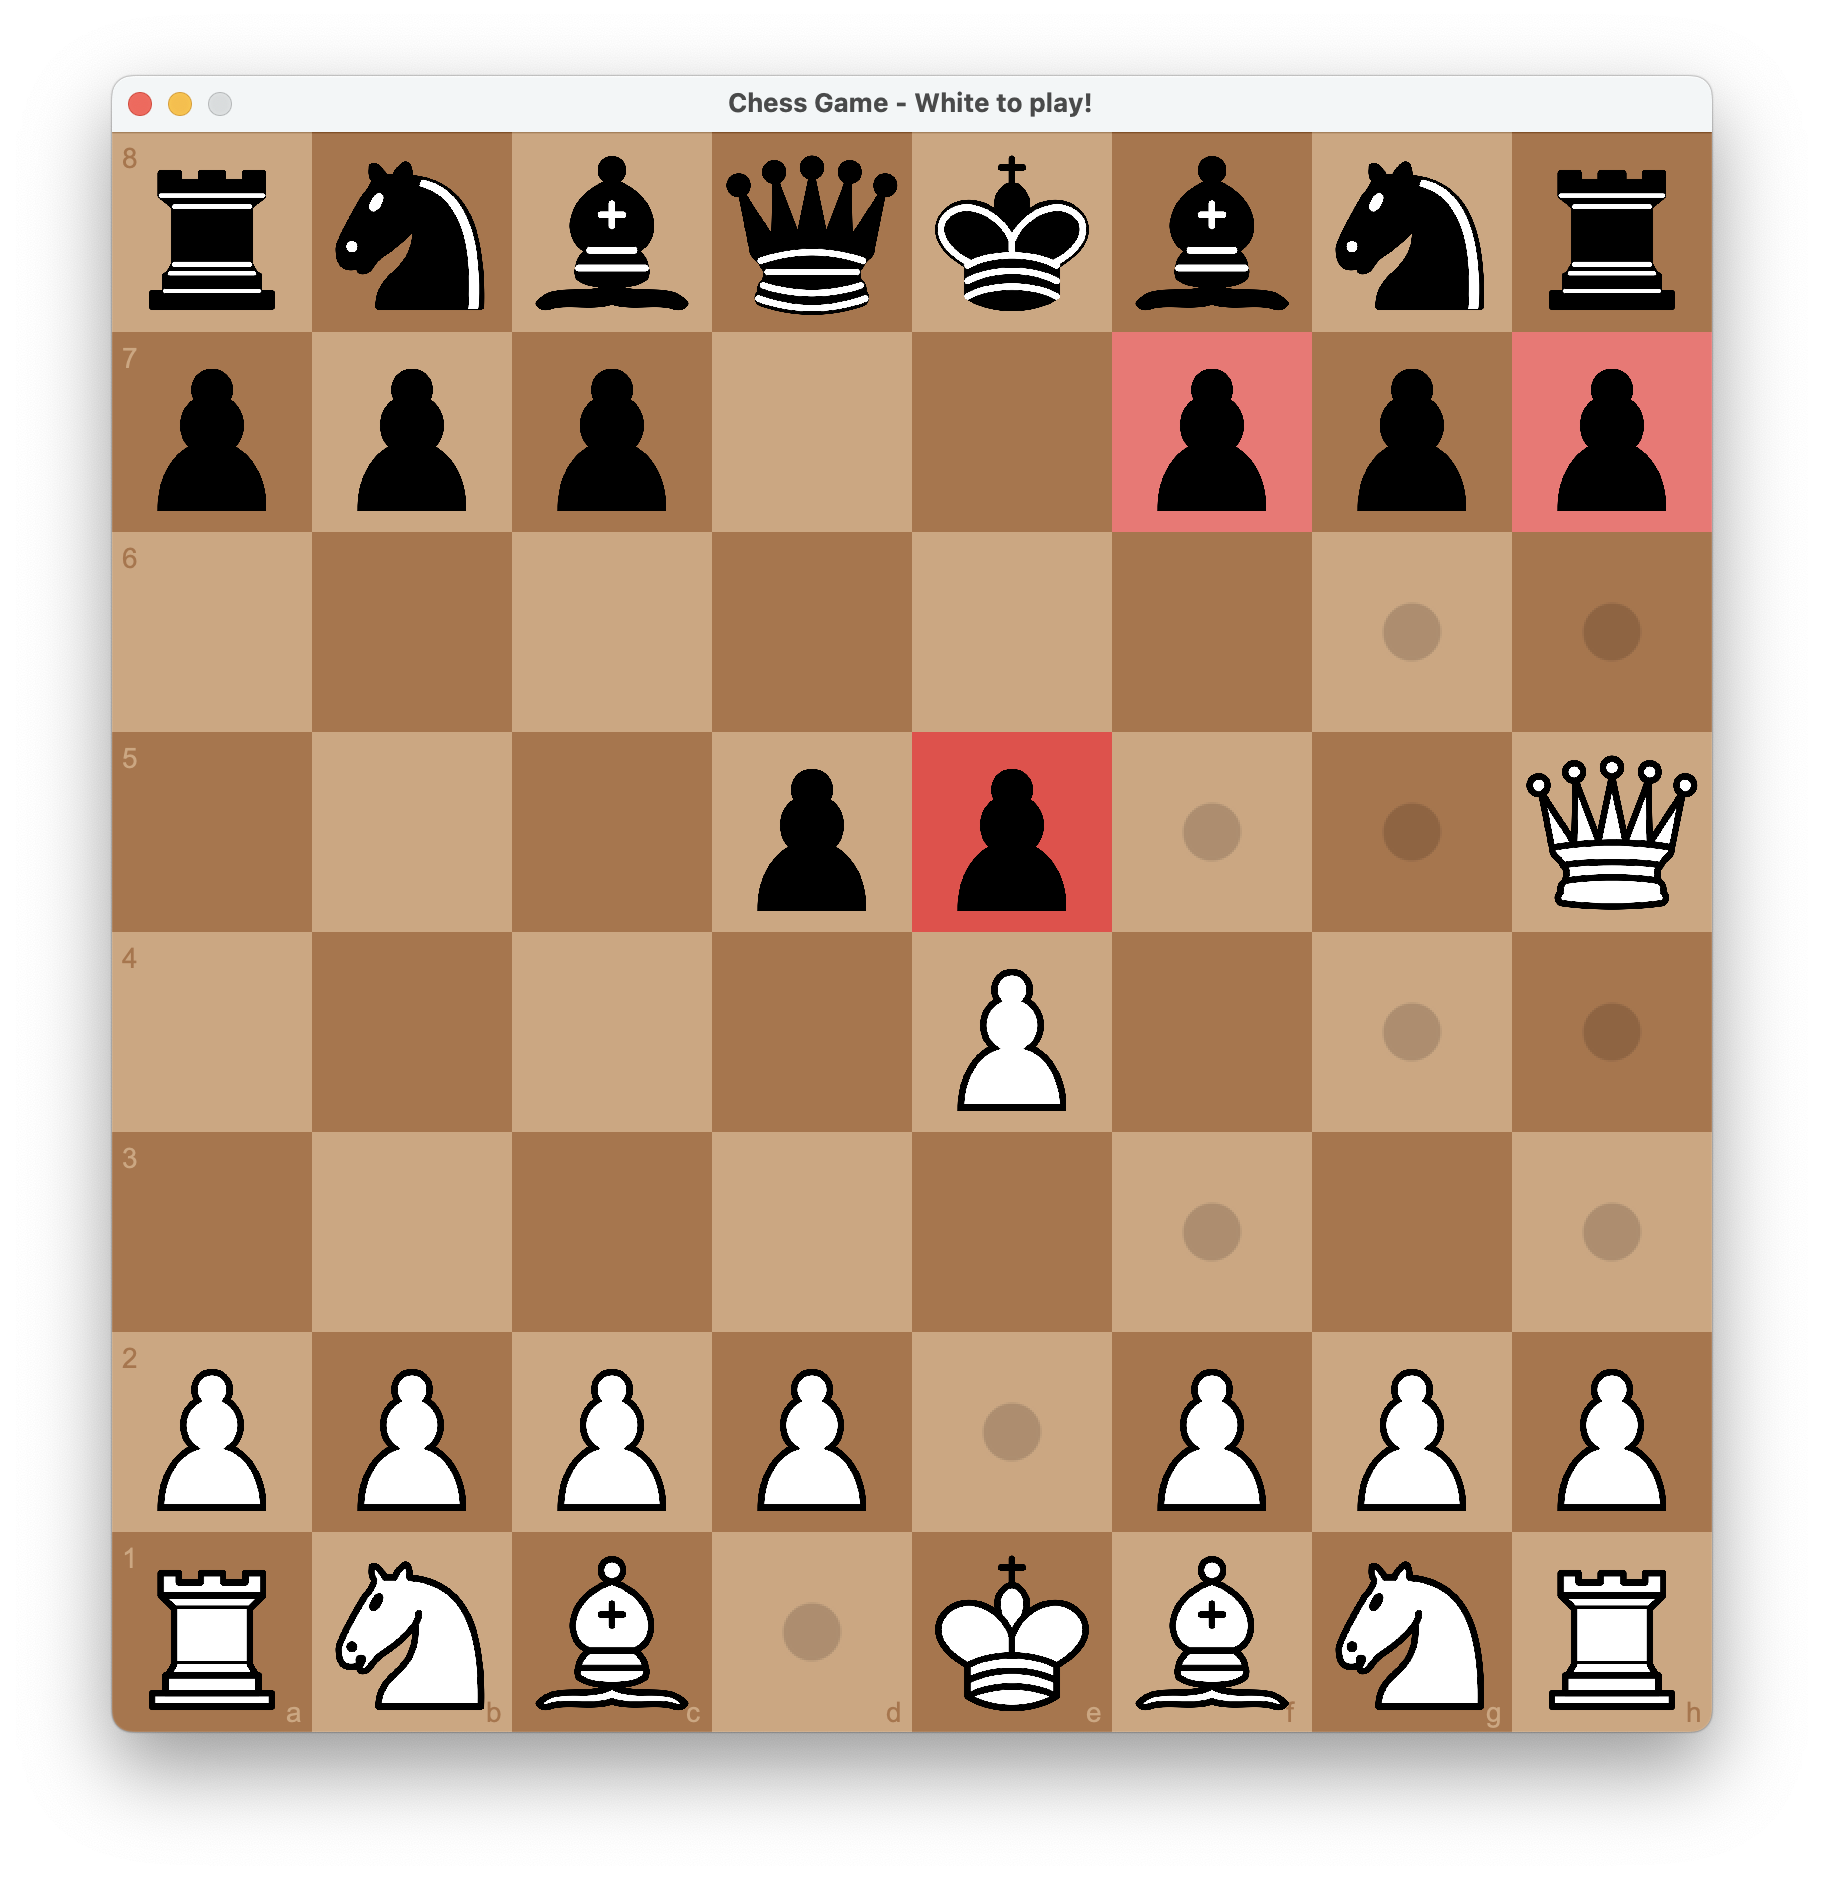
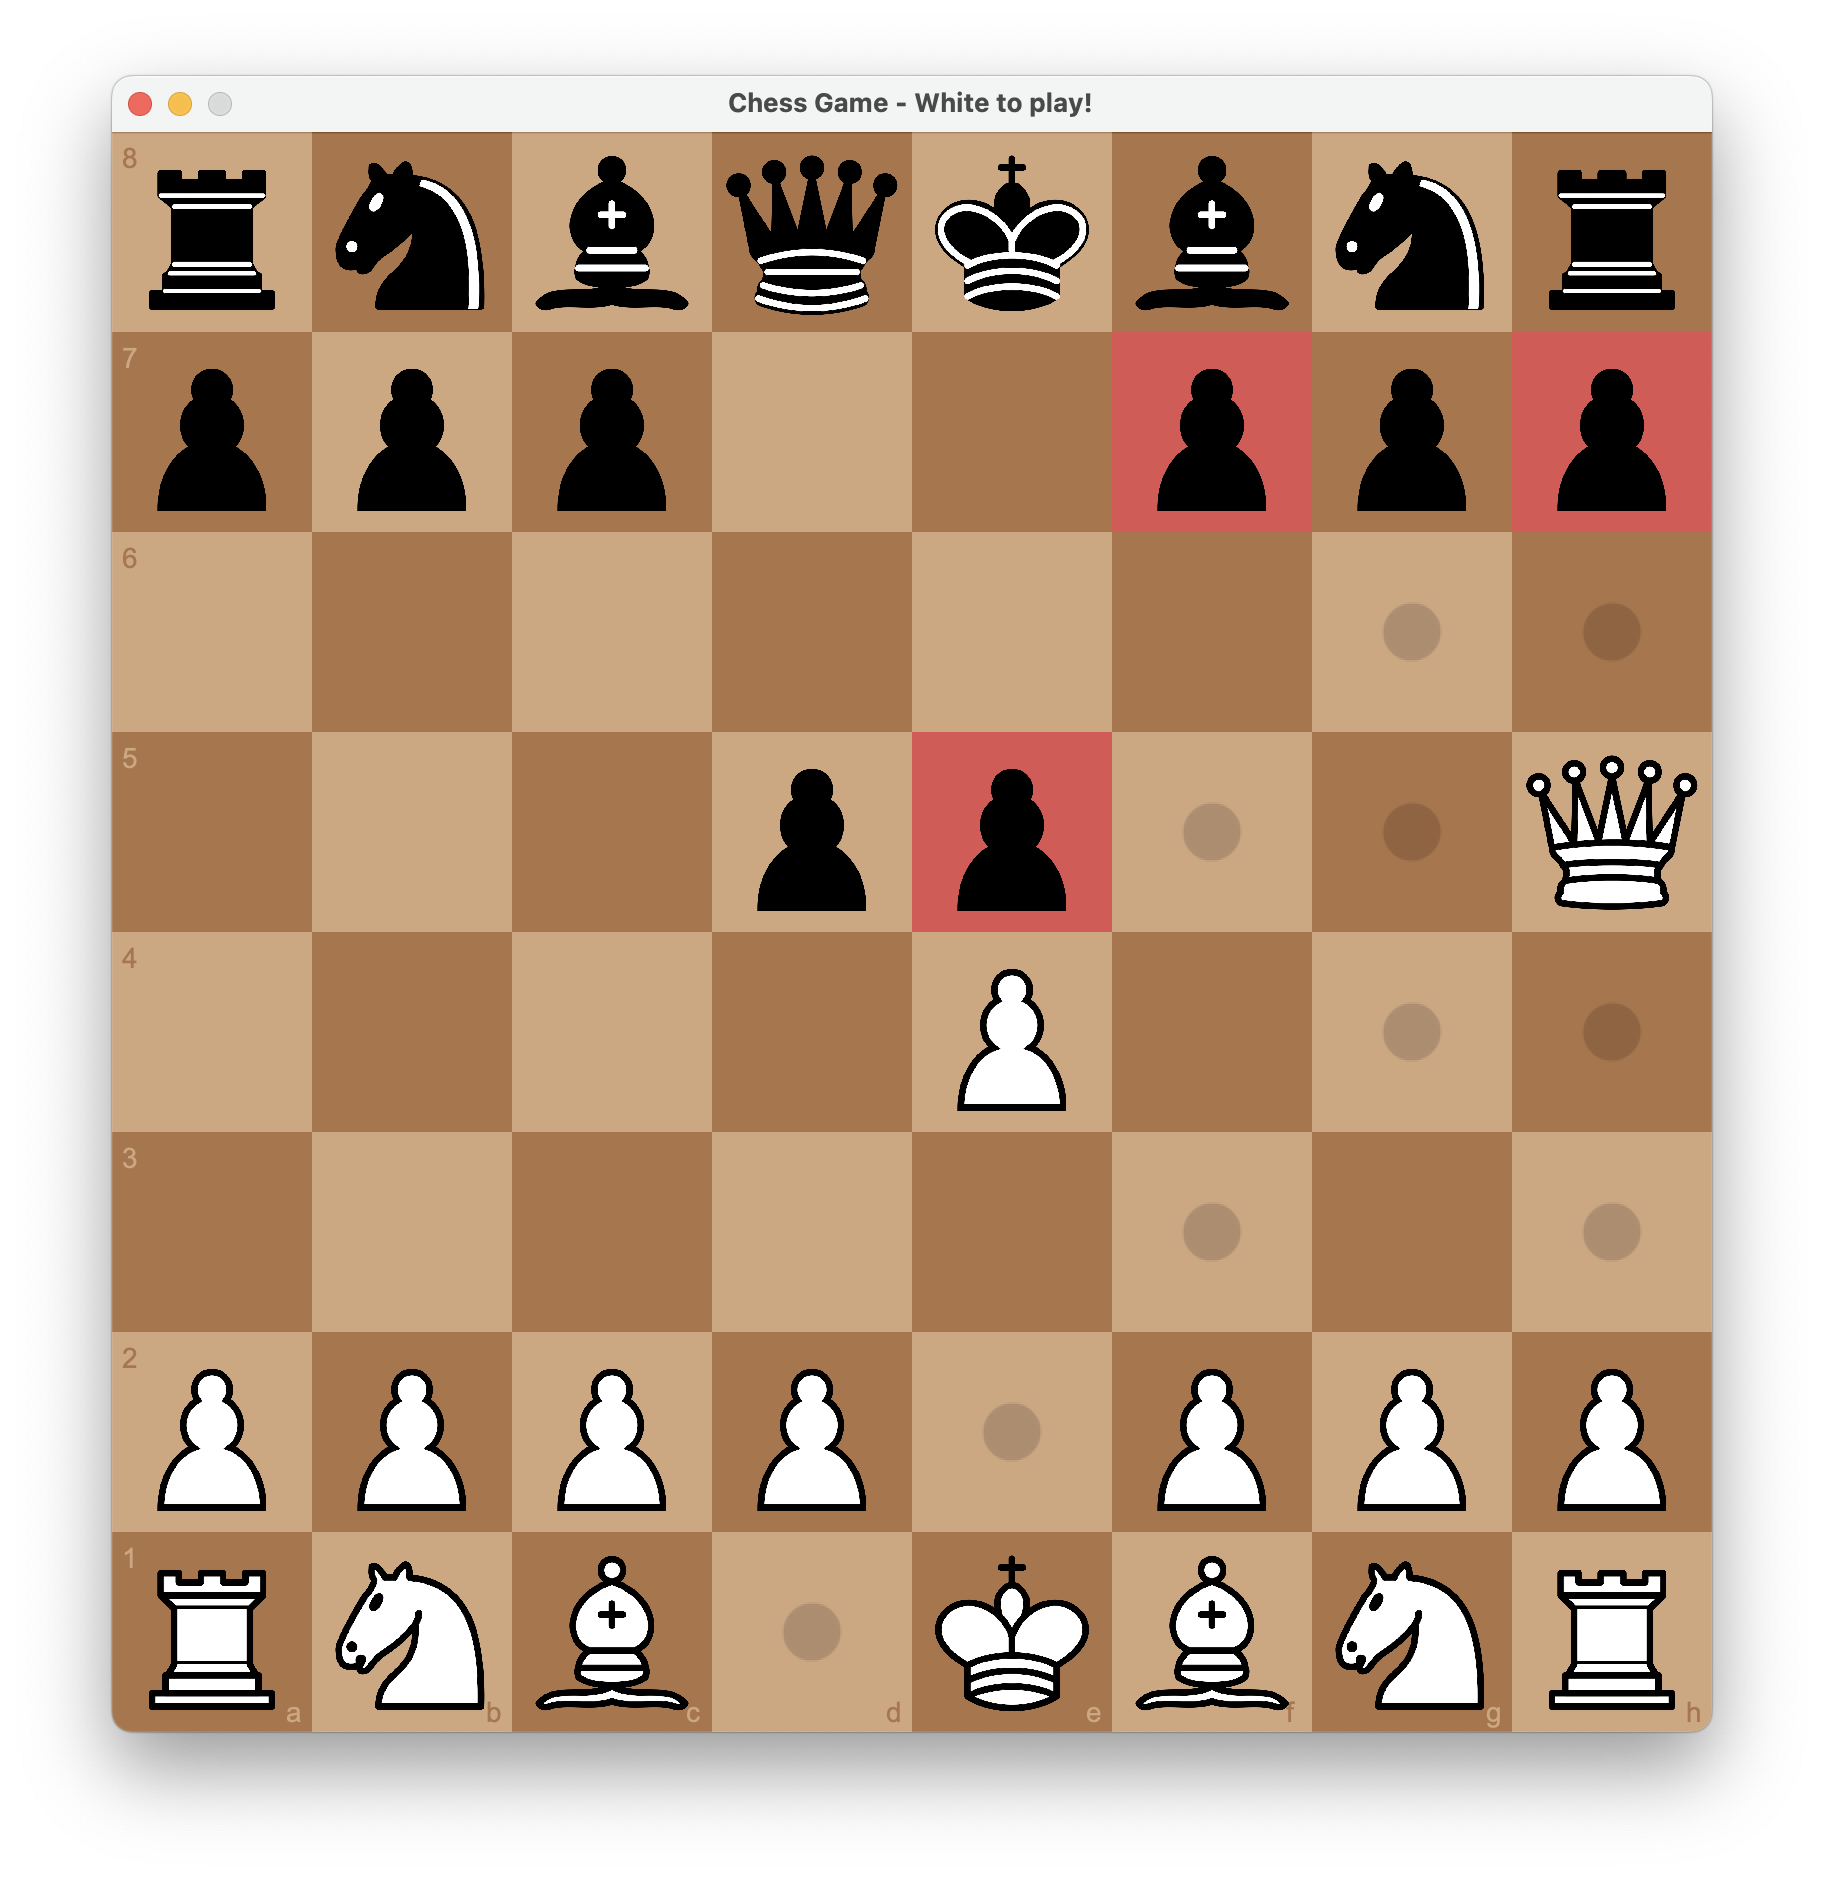
Updated Hightlight Color

Changed region(s): [[0.8125, 0.1543, 0.9375, 0.3085], [0.5938, 0.1543, 0.7188, 0.3085]]

diff --git a/src/board/Tile.java b/src/board/Tile.java
@@ -4,7 +4,7 @@ import piece.Piece;
 public class Tile {
 	public static int tileSize = 100;
 	private int file, rank;
-	private TileColor tileColor;
+	private TileColor tileColor, initialTileColor;
 	private String fileLabel, rankLabel;
 	private Piece piece;
 
@@ -13,6 +13,7 @@ public class Tile {
 		this.file = file;
 		this.rank = rank;
 		this.tileColor = tileColor;
+		this.initialTileColor = tileColor;
 		this.fileLabel = fileLabel;
 		this.rankLabel = rankLabel;
 		this.piece = piece;
@@ -49,6 +50,10 @@ public class Tile {
 
 	public TileColor getTileColor() {
 		return tileColor;
+	}
+
+	public TileColor getInitialTileColor() {
+		return initialTileColor;
 	}
 
 	public String getFileLabel() {

diff --git a/src/main/GameWindow.java b/src/main/GameWindow.java
@@ -300,16 +300,7 @@ public class GameWindow extends JPanel implements Runnable {
 	private void restoreTileColors() {
 		if (getHighlightedTiles() != null) {
 			for (Tile tile : getHighlightedTiles()) {
-				switch (tile.getTileColor()) {
-				case TileColor.LIGHT_RED:
-					tile.setTileColor(TileColor.LIGHT);
-					break;
-				case TileColor.DARK_RED:
-					tile.setTileColor(TileColor.DARK);
-					break;
-				default:
-					break;
-				}
+				tile.setTileColor(tile.getInitialTileColor());
 			}
 		}
 		setHighlightedTiles(new ArrayList<Tile>());

diff --git a/src/board/TileColor.java b/src/board/TileColor.java
@@ -3,8 +3,9 @@ package board;
 import java.awt.Color;
 
 public enum TileColor {
-	LIGHT(new Color(210, 165, 125)), DARK(new Color(175, 115, 70)), LIGHT_RED(new Color(248, 113, 113)),
-	DARK_RED(new Color(239, 68, 68));
+	LIGHT(new Color(210, 165, 125)), DARK(new Color(175, 115, 70)),
+	// LIGHT_RED(new Color(224, 82, 82)), DARK_RED(new Color(224, 82, 82)),
+	RED(new Color(224, 82, 82));
 
 	private final Color color;
 

diff --git a/src/piece/Piece.java b/src/piece/Piece.java
@@ -160,11 +160,7 @@ public class Piece implements Moveable {
 
 	public void drawCaptureableTiles(Graphics2D g2, ArrayList<Tile> tiles) {
 		for (Tile tile : tiles) {
-			if (tile.getTileColor() == TileColor.LIGHT) {
-				tile.setTileColor(TileColor.LIGHT_RED);
-			} else if (tile.getTileColor() == TileColor.DARK) {
-				tile.setTileColor(TileColor.DARK_RED);
-			}
+			tile.setTileColor(TileColor.RED);
 		}
 	}
 
